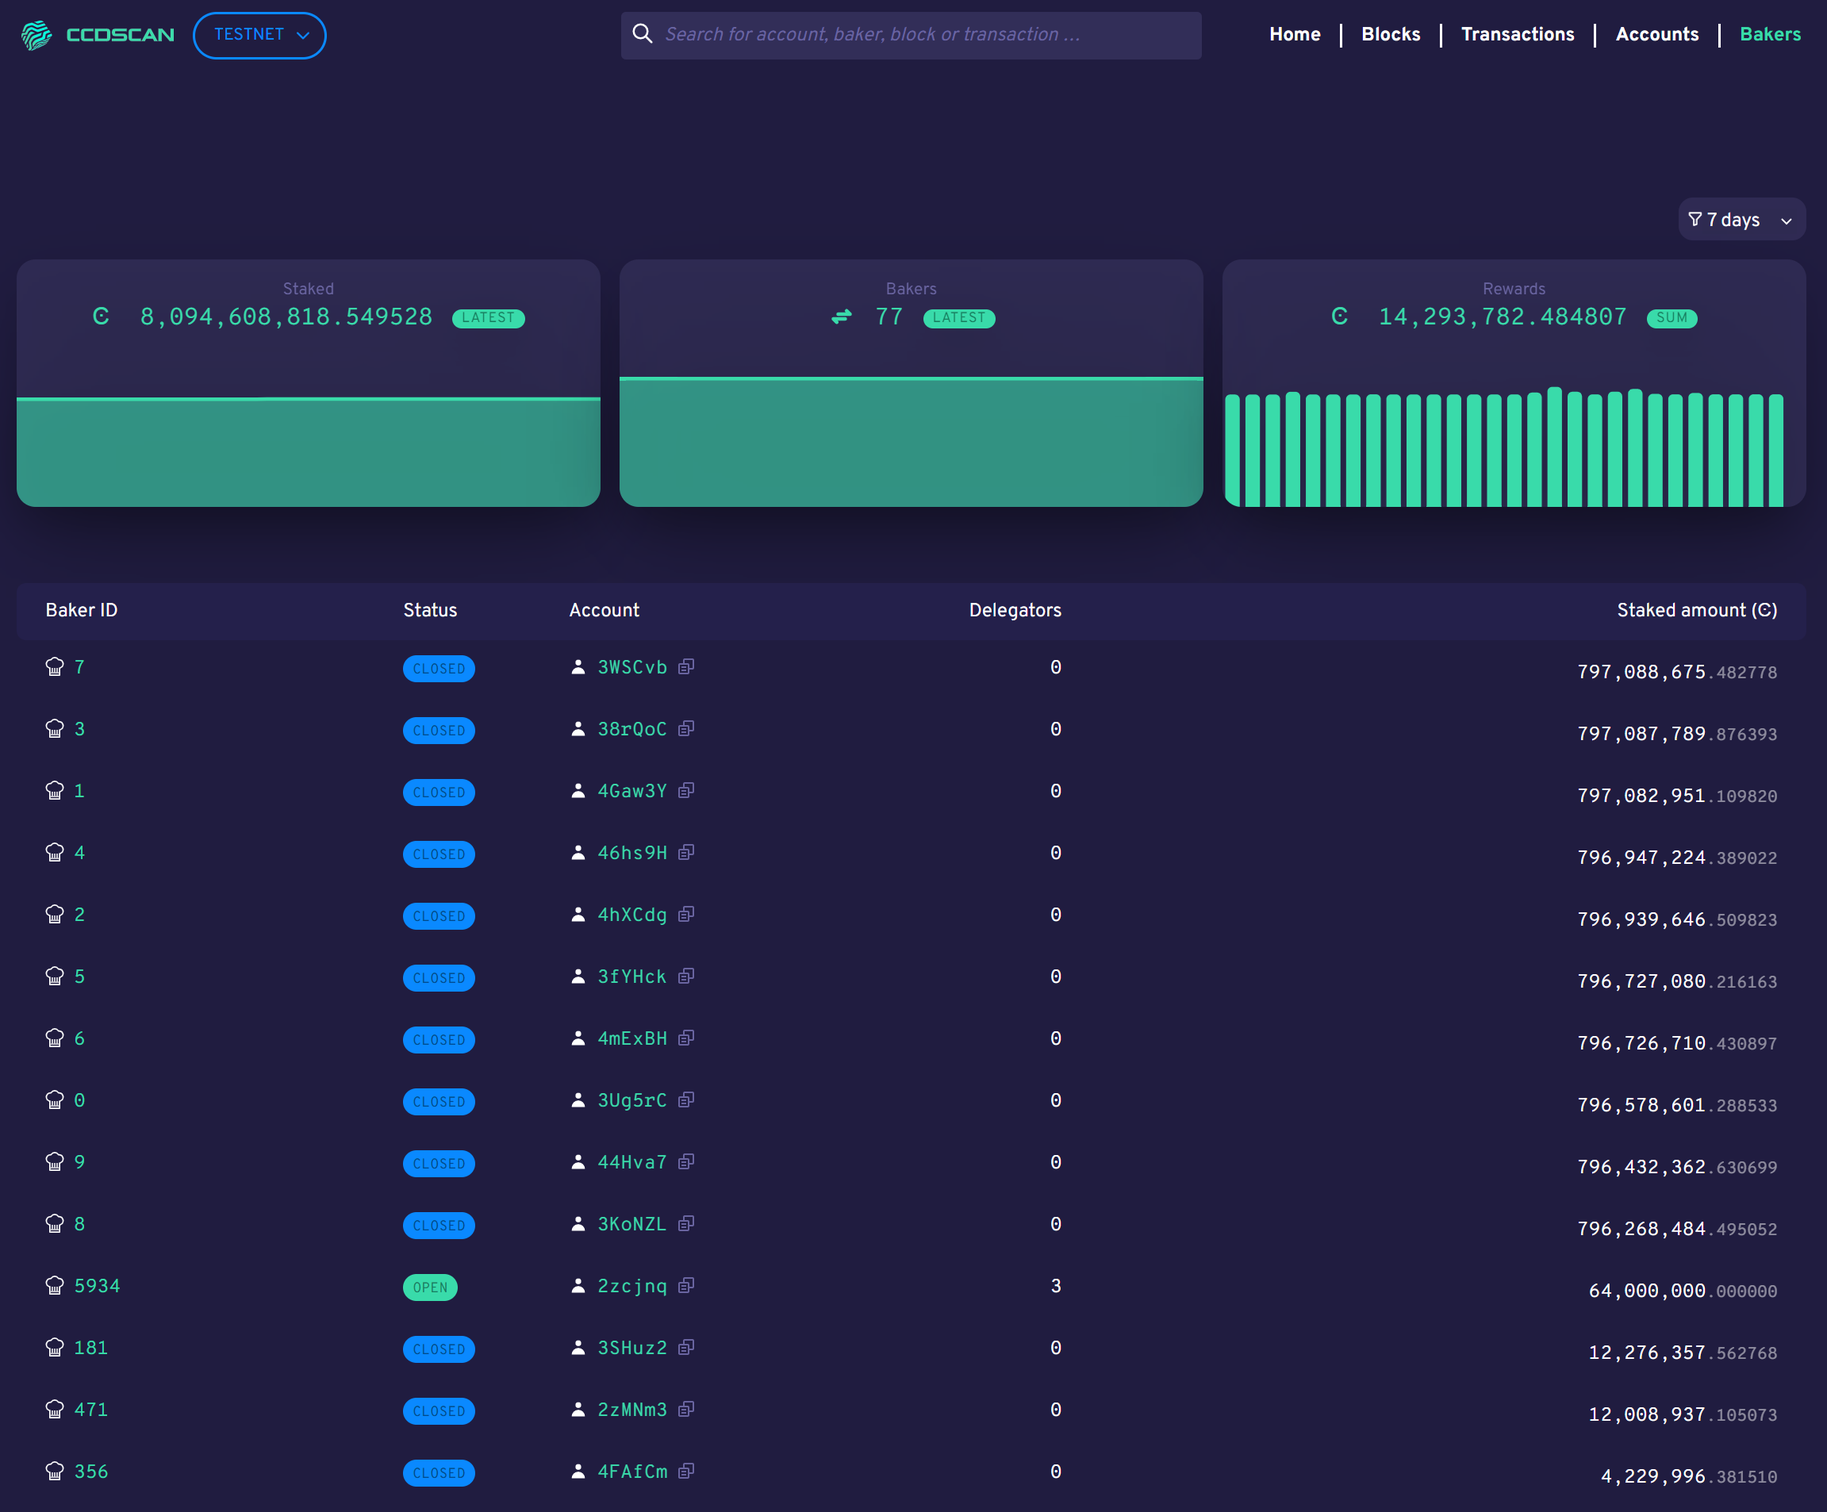
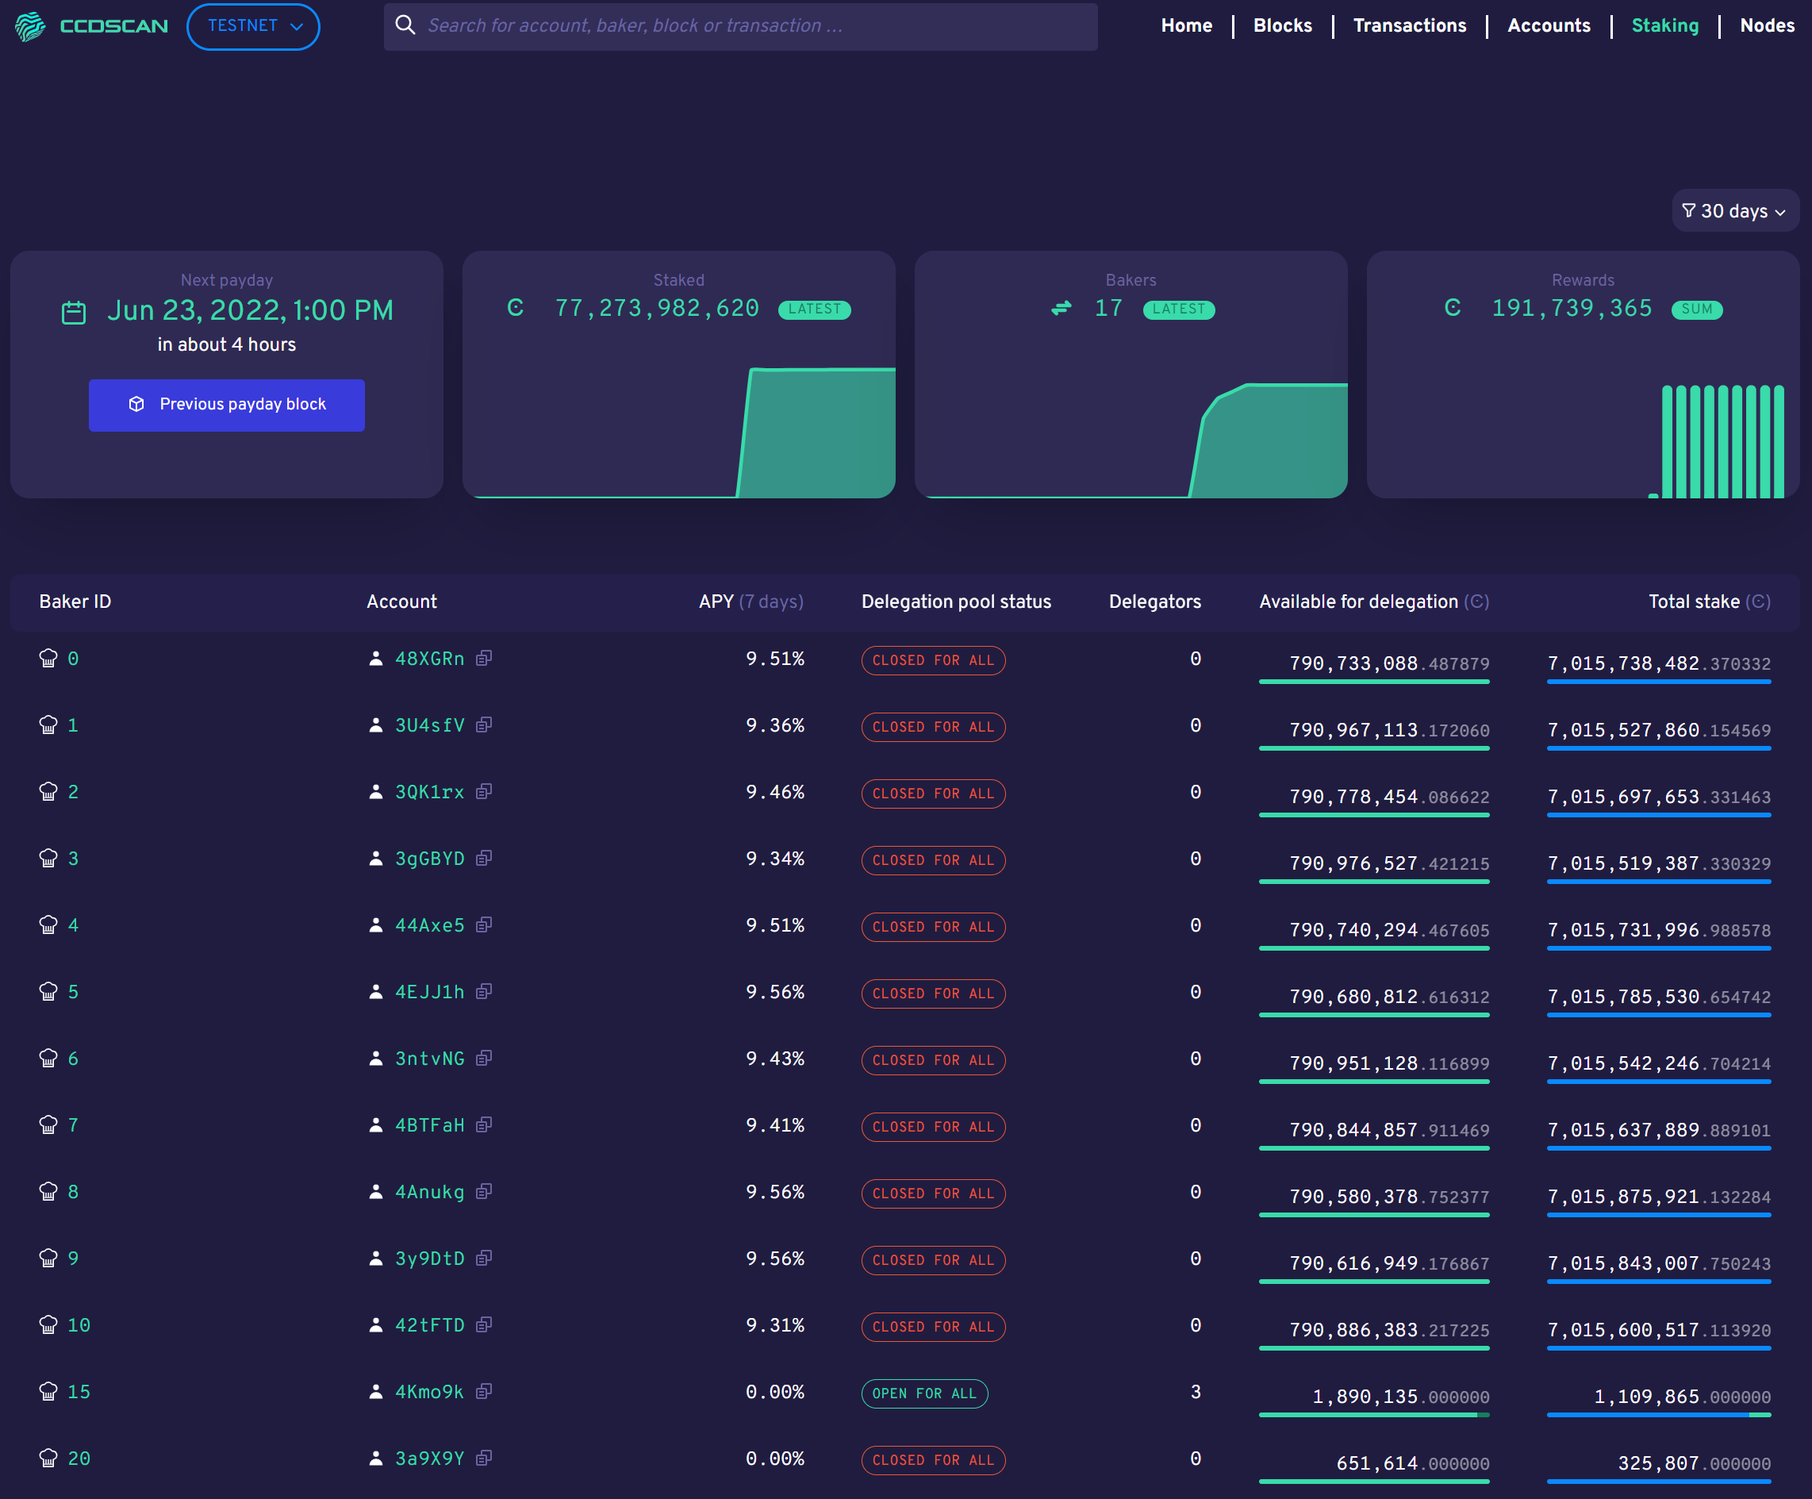
Updates based on new functionality

diff --git a/source/mainnet/net/resources/ccd-scan.rst b/source/mainnet/net/resources/ccd-scan.rst
@@ -20,7 +20,7 @@ CCDScan
 Delegation and baker pools
 ==========================
 
-The CCDScan tool allows bakers to view information that helps them to :ref:`manage their baker and pool responsibly<baker-pool>`. It also allows potential delegators to :ref:`research bakers and pools<baker-pool>` to find out which one is reliable and trustworthy.
+The CCDScan tool allows bakers to view information that helps them to :ref:`manage their baker and pool responsibly<baker-pool>`. It also allows potential delegators to :ref:`research bakers and pools<baker-pool>`.
 
 Use CCDScan
 ===========
@@ -37,16 +37,16 @@ On the Home page that appears when you navigate to CCDScan, you see the followin
 |
 
 1.  Mainnet/Testnet selector. The information shown is dependent on whether you have selected Mainnet or Testnet.
-2.  Search field
-3.  Page selector: change between pages to see other information. On a smaller screen, the page selector is available in the hamburger menu |hamburger|.
-4.  Time range filter
+2.  Search field: search across all relevant blockchain data for specific information, such as a particular account, transaction, block, or baker and see all relevant details associated with that entity.
+3.  Page naviation: change between pages to see other information. On a smaller screen, the page selector is available in the hamburger menu |hamburger|.
+4.  Time range filter: controls the time range of the data shown.
 5.  Total CCD in existence on either Mainnet or Testnet; on Mainnet Total CCD in circulation is also shown
 6.  Blocks added
 7.  Block Time
 8.  Transactions
 9.  Accounts created
-10. Latest blocks: shows latest 10 blocks
-11. Latest transactions: shows latest 10 transactions
+10. Latest blocks: continuously updated list of the latest 10 blocks baked on the blockchain, including links to details for the individual blocks and bakers. 
+11. Latest transactions: continuously updated list of the latest 10 transactions on the blockchain, including links to details for the individual transactions and senders (where available).
 
 In Latest blocks and Latest transactions click on information in the highlighted columns for details about the :ref:`block<home-screen-block>`, :ref:`baker<home-screen-baker>`, :ref:`transaction<home-screen-transaction>`, or :ref:`sender<home-screen-sender>`.
 
@@ -70,12 +70,12 @@ When you click a block hash, the following appears:
 The block details shows the following information about the block.
 
 - **Block**: the first six characters of the block hash. You can click Copy |copy| to copy the entire hash.
-- **Finalised** or **Rejected**: status of the block.
+- **Finalised** or **Rejected**: state of the block.
 - **Age**: age of the block with date/time stamp.
-- **Baker id**: baker ID of the baker who baked the block.
-- **Tokenomics**: shows the tokenomics of the accrued block rewards.
-- **Transactions**: shows the transaction(s) contained in the block, including the first six characters of the transaction hash, transaction type, first six characters of the Sender account, and the cost of the transaction. You can click **Hash** for more :ref:`information about the transacation<home-screen-transaction>`, or click **Sender** for more :ref:`information about the sender<home-screen-sender>`. You can click Copy |copy| to copy the entire hash or account number.
-- **Block statistics**: shows block time and finalization time.
+- **Baker id**: baker ID of the baker who baked the block. Click on the baker ID for details about the :ref:`baker<home-screen-baker>`.
+- **Tokenomics**: shows the tokenomics of the accrued block rewards, including the minted CCDs for the block with a breakdown of the distribution plus finalisers and baker rewards. A subsection of tokenomics is the full list of finalisers for each individual block including their weight and reward. It is possible to copy the full address of the finalizer |copy| or drillthrough to the account information of the finaliser. Baker rewards includes a breakdown of the baker rewards details about the rewards, transaction fees, and so on.
+- **Transactions**: shows the transaction(s) contained in the block, if any, including the first six characters of the transaction hash, transaction type, first six characters of the Sender account, and the cost of the transaction. You can click **Hash** for more :ref:`information about the transacation<home-screen-transaction>`, or click **Sender** for more :ref:`information about the sender<home-screen-sender>`. You can click Copy |copy| to copy the entire hash or account number.
+- **Block statistics**: shows the block time (time since last block) and the finalization time of the block (the time before proof of finalization of the selected block was included in a subsequent block).
 
 .. _home-screen-baker:
 
@@ -90,17 +90,20 @@ When you click a baker ID, the following appears:
 
 The baker details shows the following information about the baker.
 
-- **Baker**: the baker ID. This is the ID you need if you want to delegate to the baker pool in a wallet.
-- **Open, Closed**: the baker pool status.
+- **Baker**: the baker ID. This is the ID you need if you want to delegate to the baker pool in a wallet. If the Baker has been removed (i.e. the baker is no longer active), **Removed** appears next to the ID and a timestamp shows when the baker stopped.
+- If there are any pending changes, they are shown here. Events such as stake increase, stake reduction, or baker stop are displayed.
 - **Total stake**: the baker's total stake. Below the total is the amount staked by the baker and the amount of stake that comes from delegators.
+- **Open, Closed**: the baker pool status.
 - **Account**: the first six characters of the baker account. You can click on the characters for more :ref:`information about the sender<home-screen-sender>`. You can click Copy |copy| to copy the entire account number.
+- **APY Period**: choose between 7 days or 30 days. This seletion affects the **Total APY**, **Baker APY**, and **Delegators APY**.
 - **Baker rank**: the baker's rank out of all bakers on Mainnet/Testnet based on the baker's total stake.
 - **Baking commission**: the baker's baking commission percent.
 - **Finalisation commission**: the baker's finalization commission percent.
 - **Transaction commission**: the baker's transaction commission percent.
-- **Rewards**: shows the sum of rewards earned by the baker and the individual rewards transactions for the time range selected in the filter. Shows the date/time the reward was earned, the transaction type, reference shows the first six characters of the transaction hash, and amount shows the amount of the reward. You can click on the first six characters of a number in Reference to see :ref:`information about the transaction<home-screen-transaction>`. Click Copy |copy| to copy the entire hash number.
+- **Payday rewards**: shows the sum of rewards earned by the baker and the individual rewards transactions for the time range selected in the filter. Shows the date/time the reward was earned, the transaction type, reference shows the first six characters of the transaction hash, and amount shows the amount of the reward. You can click on the first six characters of a number in Reference to see :ref:`information about the transaction<home-screen-transaction>`. Click Copy |copy| to copy the entire hash number.
 - **Related transactions**: shows other transactions related to this baker ID. You see the hash (transaction hash), transaction type, and the transaction age. You can click on the hash characters for more :ref:`information about the transacation<home-screen-transaction>`. Click Copy |copy| to copy the entire hash number.
 - **Delegators**: shows the first six characters of the account delegating to the baker, that account's delegated stake, and whether earnings are restaked. You can click on the characters of the account for more :ref:`information about the delegator<home-screen-sender>`. Click Copy |copy| to copy the entire account number.
+- **Metadata**: contains the URL that the baker can optionally provide with information about the baker pool.
 
 .. _home-screen-transaction:
 
@@ -115,11 +118,13 @@ When you click a transaction hash, transaction information appears. The informat
 
 The transaction details shows the following.
 
-- **Transaction**: the first six characters of the transaction hash. You can click Copy |copy| to copy the entire transaction hash.
+- **Transaction**: the first six characters of the transaction hash. You can click Copy |copy| to copy the entire transaction hash. It also shows the transaction state.
 - **Block height/block hash**: the block height and the first six characters of the block hash. You can click Copy |copy| to copy the entire block hash. If you click on an block hash, the :ref:`account details<blocks-view>` appears.
-- **Age**: the transaction age with date/time stamp when the transaction was finalized.
+- **Age**: the transaction age with date/time stamp.
 - **Transaction type/cost**: the transaction type and the transaction fee.
-- **Sender**: the first six characters of the account that sent the transaction. You can click Copy |copy| to copy the entire hash. If you click on an account hash, the :ref:`account details<accounts-view>` appears.
+- **Sender**: the first six characters of the account that sent the transaction if available for that transaction. You can click Copy |copy| to copy the entire hash. If you click on an account hash, the :ref:`account details<accounts-view>` appears.
+- **Events/Reject reason**:  list of events included in the transaction. It contains more details about the transaction, including drill-through links and copy options where available. There are many different transaction types and descriptions. If you see the transaction type **Update micro CCD per Euro**, it is 
+possible to see the new rate and the effective timestamp.
 
 A successful transaction shows the **Events** that were included in the transaction.
 
@@ -133,10 +138,10 @@ The only difference between a successful and rejected transaction is that the re
 
 .. _home-screen-sender:
 
-Sender
-^^^^^^
+Sender/Account
+^^^^^^^^^^^^^^
 
-When you select a sender, the following appears.
+When you select a sender or account, the following appears.
 
 .. image:: ../images/ccd-scan/ccd-scan-home-sender.png
 
@@ -146,9 +151,9 @@ The following information is shown in the account details:
 
 - **Account**: the first six characters of the account number are shown. You can click Copy |copy| to copy the entire account number.
 - **Balance**: the account balance is shown.
-- **Age**: the age of the account.
-- **Transactions**: Use the navigation buttons at the bottom to navigate through transactions.
-- **Account statement**: Use the navigation buttons at the bottom to navigate through account statements.
+- **Age**: the age of the account including the exact timestamp for all individual accounts.
+- **Transactions**: a list of all related transactions associated with the account. Use the navigation buttons at the bottom to navigate through transactions.
+- **Account statement**: shows how the account balance has changed over time, including the types of changes that have impacted the balance of the account. Use the navigation buttons at the bottom to navigate through account statements.
 
 .. _blocks-view:
 
@@ -161,9 +166,9 @@ Blocks shows information about the blocks created during the selected time range
 
 |
 
-You can see the number of blocks added, the average block time, and the average finalization time.
+The graphs show the number of blocks added, the average block time, and the average finalization time.
 
-Below the graphs, the table contains the following:
+Below the graphs, the table contains the latest blocks added to the blockchain with the following information:
 
 - **Block hash**: the first six digits of the block hash. You can click Copy |copy| to copy the entire hash.
 - **Status**: the block status
@@ -183,7 +188,7 @@ Transactions shows information about the transactions during the selected time r
 
 |
 
-You can see the cumulative number of transactions and the number of transactions in a range as determined by the time selected in the filter.
+The graphs show the cumulative number of transactions since inception and the number of transactions in a range as determined by the time selected in the filter.
 
 Below the graphs, the table contains the following:
 
@@ -206,7 +211,7 @@ Accounts shows information about accounts during the selected time range in the 
 
 |
 
-On the Accounts page you see the Cumulative accounts created and the Accounts created during the selected time range in the filter.
+The graphs show the Cumulative accounts created since inception and the Accounts created during the selected time range in the filter.
 
 Below the graphs, the table contains the following:
 
@@ -217,24 +222,65 @@ Below the graphs, the table contains the following:
 
 .. _bakers-view:
 
-Bakers
-------
+Staking
+-------
 
-Bakers shows information about bakers during the selected time range in the filter:
+Staking shows information about bakers during the selected time range in the filter:
 
 .. image:: ../images/ccd-scan/ccd-scan-bakers.png
 
 |
 
-On this page you see the graphs showing when the next payday happens, the amount of staked CCD, the number of bakers, and the total of rewards.
+The graphs show when the next payday happens, the amount of staked CCD, the number of bakers, and the total of rewards during the selected time range in the filter. If you click **Previous payday block**, the :ref:`block details<home-screen-block>` for the previous pay day block appears.
 
-Below the graphs, the table contains the following:
+Below the graphs, you can switch between **Baker pools** and **Top delegators**. You can also choose to see details for **Passive delegation**. There is a switch to **Show only open pools** and a filter where you can choose how the data shown in the table should be ordered.
 
-- **Baker ID**: ID of the baker. This is the ID you need if you want to delegate to the baker pool in a wallet. If you click on a baker ID, the :ref:`baker details<home-screen-baker>` appears.
-- **Delegation pool Status**: the baker's pool status.
+If you select **Baker pools** the table contains the following:
+
+- **Baker ID**: ID of the baker. This is the ID you need if you want to delegate to the baker pool in a wallet. If you click on a baker ID, the :ref:`baker details<home-screen-baker>` appears. If the Baker has been removed (i.e. the baker is no longer active), **Removed** appears next to the ID.
 - **Account**: the first six characters of the acccount hash appears. You can click Copy |copy| to copy the entire hash. If you click on an account hash, the :ref:`account details<accounts-view>` appears.
+- **APY (7 days)**: the annual percentage yield of the baker for the past 7 days.
+- **Delegation pool Status**: the baker's pool status.
 - **Delegators**: the number of delegators that baker has.
-- **Staked amount**: the total stake of that baker.
+- **Available for delegation**:
+- **Total stake**: the total stake of that baker.
+
+If you select **Top delegaators** the table contains the following:
+
+- **Account address**: the first six characters of the account hash. You can click Copy |copy| to copy the entire hash. If you click on an account hash, the :ref:`account details<accounts-view>` appears.
+- **Delegation target**: the baker whose pool the account has staked. If you click on a baker ID, the :ref:`baker details<home-screen-baker>` appears.
+- **Restake earnings**: shows the delegator's restaking preference.
+- **Staked amount**: amount of CCD the delegator has staked.
+
+If you select **Passive delegation** the following appears:
+
+.. image:: ..images/ccd-scan/ccd-scan-passive-delegation.png
+
+- **Delegated stake**: amount of CCD delegated to passive delegation.
+- **APY (7 days)**: the annual percentage yield of passive delegation based on past 7 days.
+- **APY (30 days)**: the annual percentage yield of passive delegation based on past 30 days.
+- **Baking commission**: percent of rewards paid as commission to baker.
+- **Finalisation commission**: percent of finalization commission.
+- **Transaction commission**: 
+- **Rewards**: list of rewards paid out during the selected time range. **Time** shows the date/time the reward was paid; **Reference** shows the first six characters of the block hash in which the reward was paid. You can click Copy |copy| to copy the entire hash. If you click on the hash, the :ref:`block details<home-screen-block>` appear.
+- **Delegators**: the delegators staking to passive delegation, their restake preference, and amount staked. Click on a **Hash** to see :ref:`account details<accounts-view>`. You can click Copy |copy| to copy the entire hash.
+
+Nodes
+-----
+
+Nodes shows information about the nodes on Mainnet/Testnet in alphabetical order by node name. The list contains the following information:
+
+- **Node name**: node name as given by the node runner.
+- **Baker ID**: if the node is a baker, the baker ID appears. If you click on a baker ID, the :ref:`baker details<home-screen-baker>` appears.
+- **Uptime**: amount of time the node has been running.
+- **Node version**: version of Concordium node software that the node is running.
+- **Avg. ping**: average ping time between the peers of the participant.
+- **Peers**: number of peers connected to the participant.
+- **Fin. length**: length of participant’s chain up to last finalized block.
+
+.. image:: ../images/ccd-scan/ccd-scan-nodes.png
+
+|
 
 .. |copy| image:: ../images/ccd-scan/ccd-scan-copy.png
              :class: button
